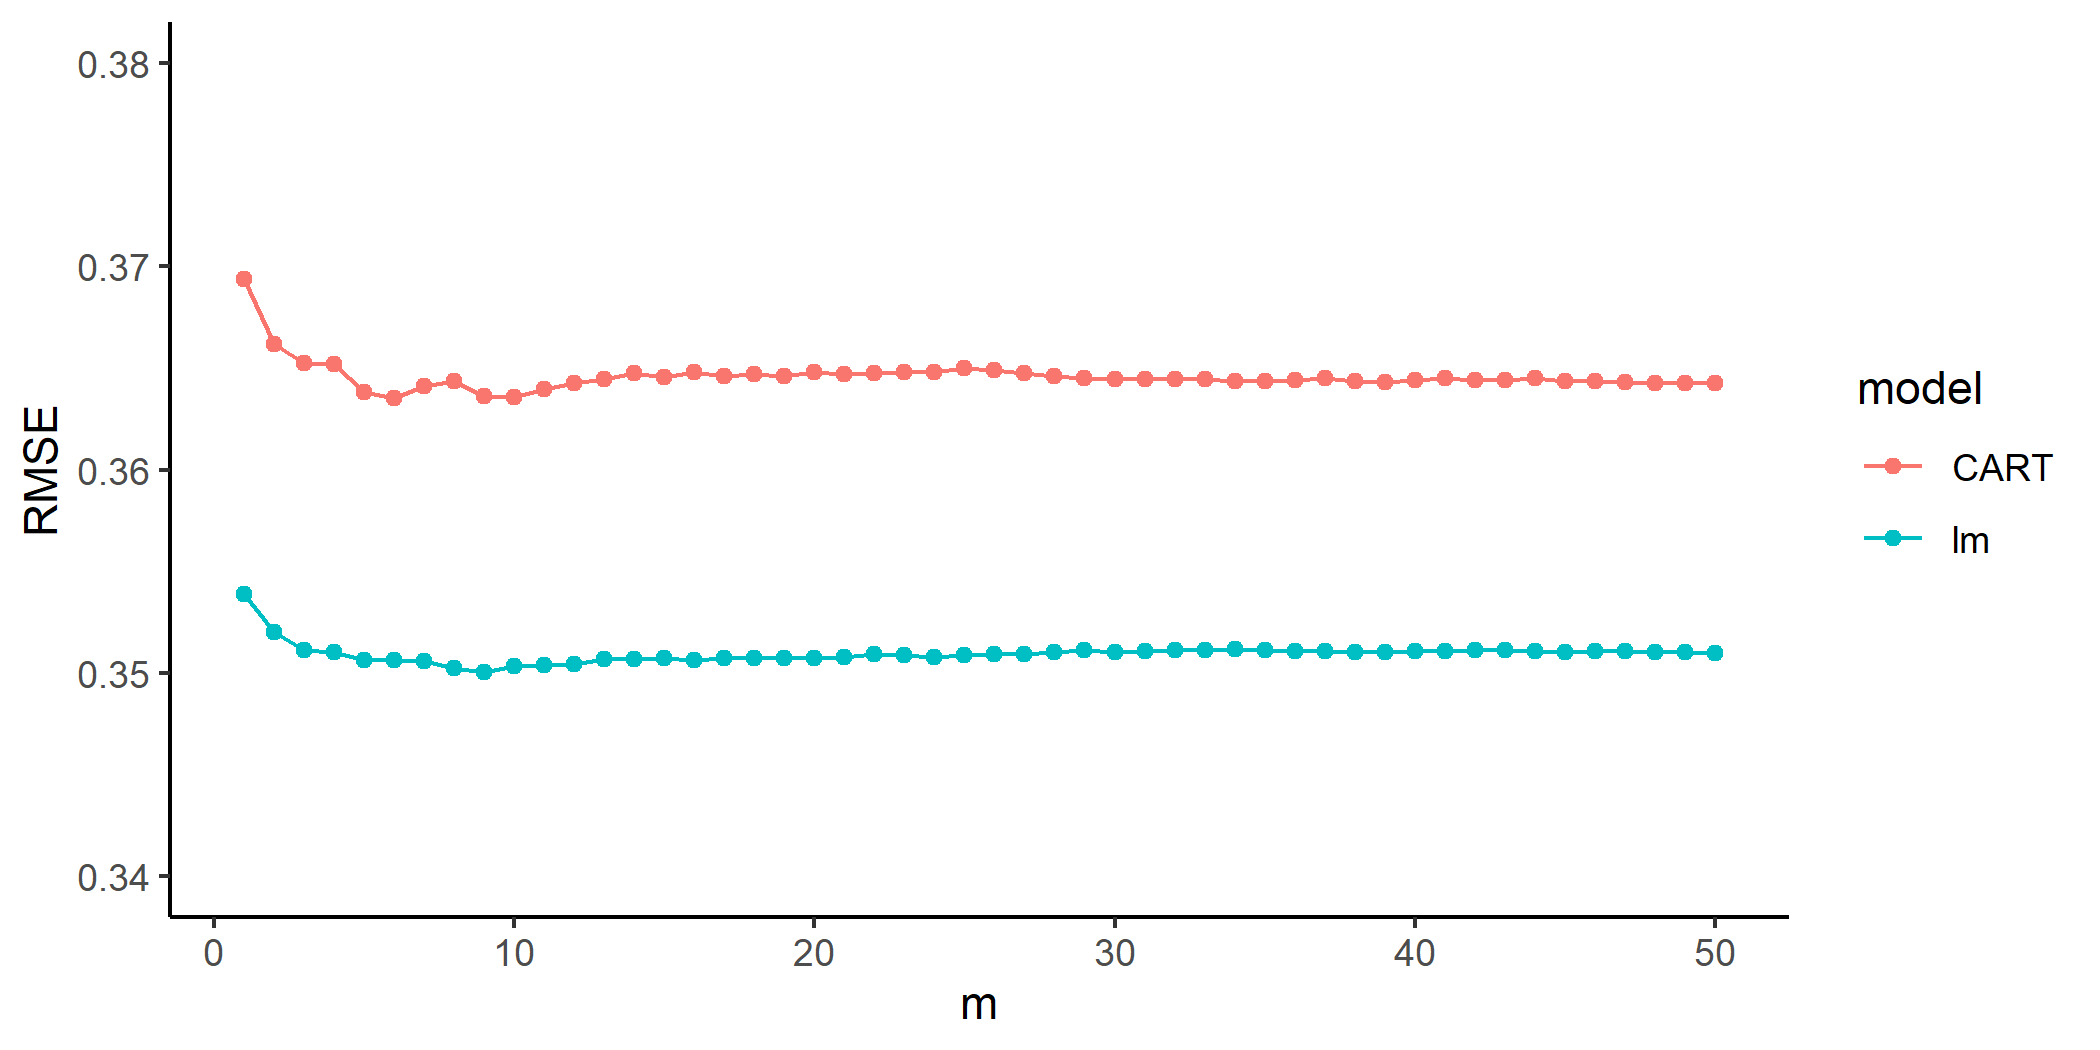
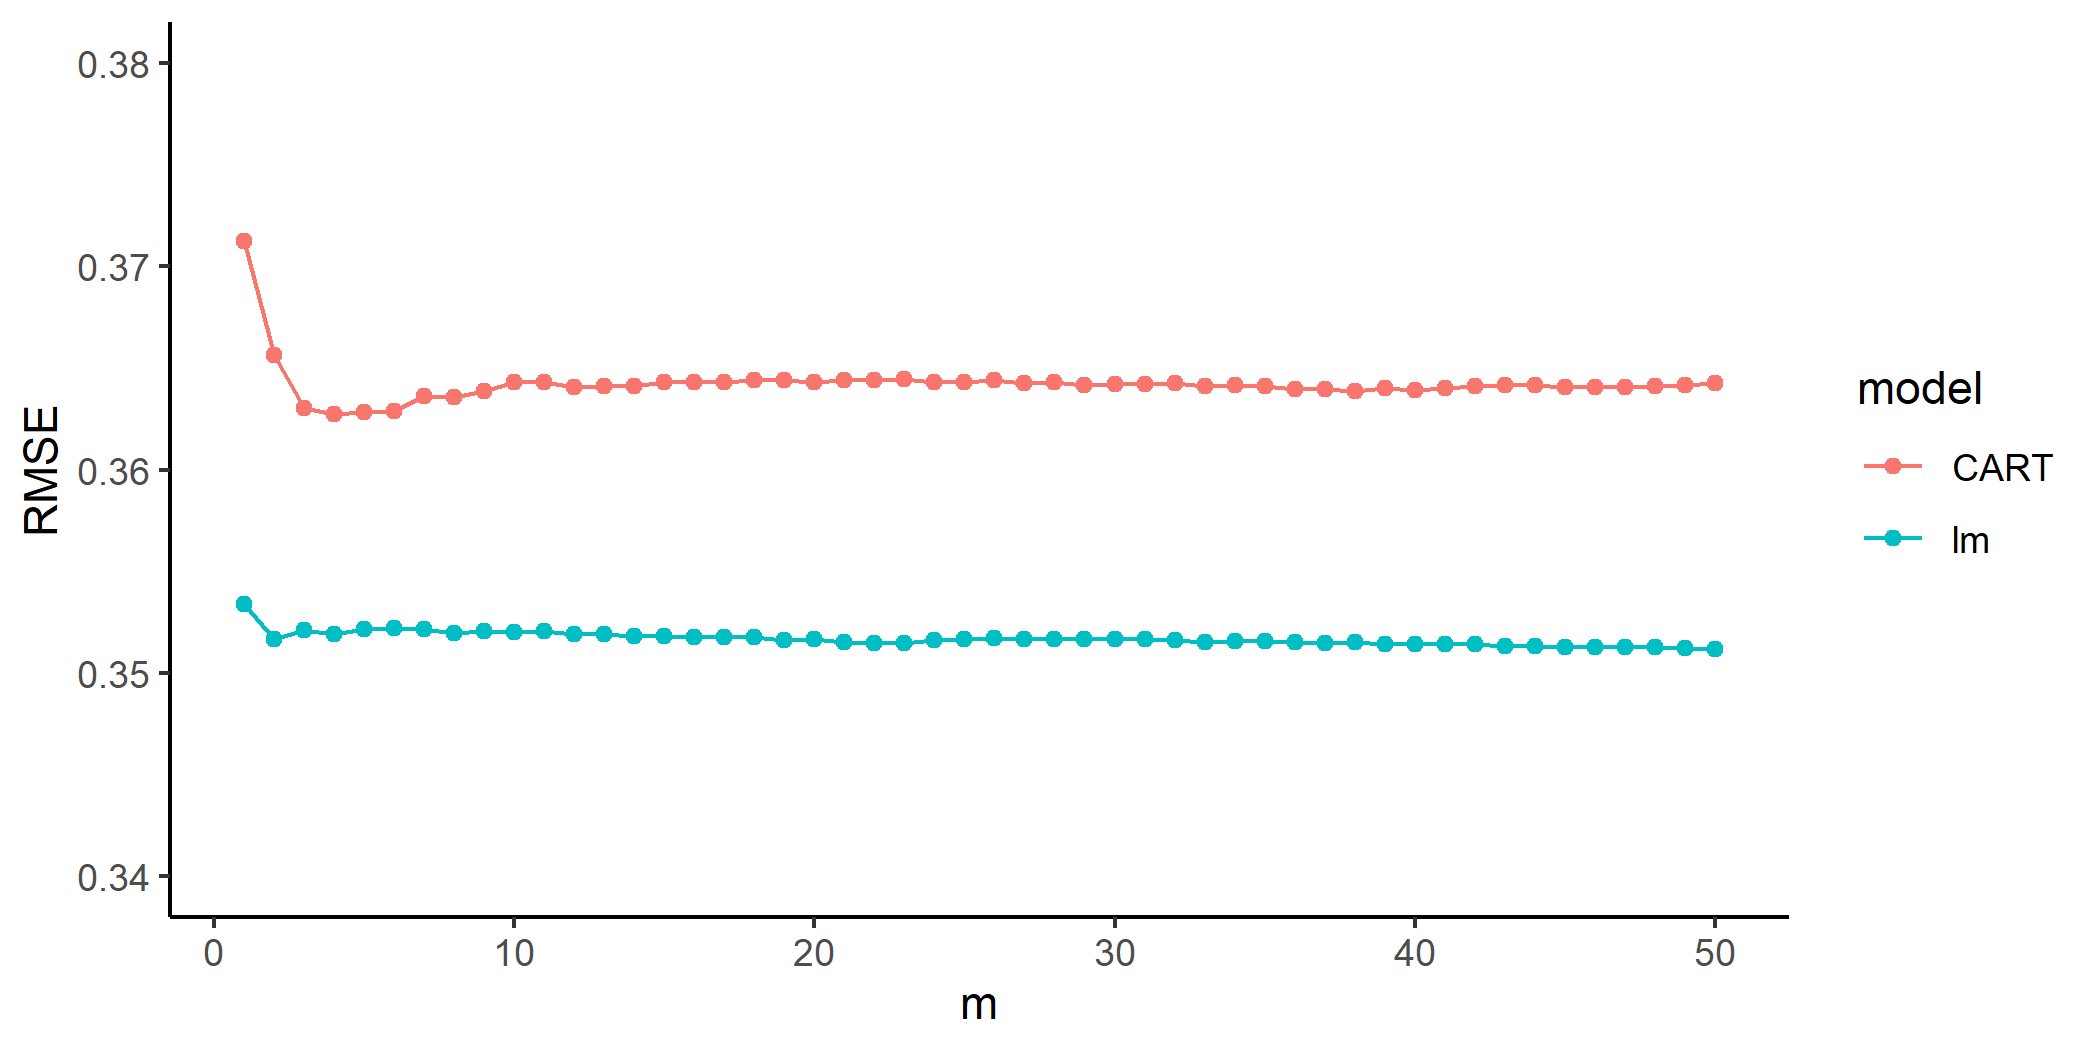
Finishes RF

diff --git a/u3_d01-trees/u3_d01-trees.html b/u3_d01-trees/u3_d01-trees.html
@@ -1073,7 +1073,7 @@ ggroc(roc_obj) +
   geom_segment(aes(x = 1, xend = 0, y = 0, yend = 1), color="darkgrey", linetype="dashed")
 ```
 
-&lt;img src="images/unnamed-chunk-24-1.png" width="50%" /&gt;
+&lt;img src="images/GLM-ROC-1.png" width="50%" /&gt;
 
 ---
 
@@ -1155,11 +1155,11 @@ report_accuracy_and_auc(okcupid3_valid$pets, pred_glm_glmnet[, 1])
 
 ```
 ## AUC: 0.739
-## ACC: 0.672
+## ACC: 0.671
 ## Dogs: Recall: 0.672
-##       Precision: 0.923
-## Cats: Recall: 0.672
-##       Precision: 0.259
+##       Precision: 0.922
+## Cats: Recall: 0.667
+##       Precision: 0.257
 ```
 
 ---
@@ -1473,7 +1473,7 @@ report_rmse_and_cor(okcupid2_valid$income, pred_bag_na)
 
 ```
 ## RMSE: 0.367
-## CORR: 0.434
+## CORR: 0.429
 ```
 
 ```r
@@ -1483,8 +1483,8 @@ report_rmse_and_cor(okcupid2_valid$income, pred_bag_mice)
 ```
 
 ```
-## RMSE: 0.366
-## CORR: 0.438
+## RMSE: 0.367
+## CORR: 0.431
 ```
 
 ---
@@ -1492,6 +1492,87 @@ report_rmse_and_cor(okcupid2_valid$income, pred_bag_mice)
 class: section-slide
 
 # Random Forests
+
+---
+
+### Random Forests: The Gist
+
+For `\(i = 1\)` to `\(m\)` do
+- Generate a bootstrap sample of the original data
+- Train an unpruned tree model on this sample
+- For each splot:
+  - Randomly select `\(m_{try}\)` predictors
+  - Select best predictor for split in this subset only
+
+End.
+
+---
+
+What does RF add on top of Bagging?
+
+&lt;img src="images/RF-Trees-1.png" width="80%" /&gt;
+
+---
+
+### RF with `randomForest`
+
+For some reason this implementation of RF won't accept missing values:
+
+
+```r
+library(randomForest)
+
+mod_rf_mice &lt;- randomForest(income ~ ., data = okcupid2_imp_mice_train,
+                       mtry = 10, ntree = 50, importance = TRUE)
+pred_rf_mice &lt;- predict(mod_rf_mice, okcupid2_imp_mice_valid)
+report_rmse_and_cor(okcupid2_valid$income, pred_rf_mice)
+```
+
+```
+## RMSE: 0.355
+## CORR: 0.487
+```
+
+For variable importance check out the `importance` field of the RF object:
+
+---
+
+&lt;img src="images/RF-VarImp-1.png" width="70%" /&gt;
+
+.insight[
+💡 What is troubling about variable importance?
+]
+---
+
+### Partial Dependency Plots
+
+1. Select a subset `\(X_s\)` of variables (usually 1-2) you wish to know the relation to the dependent variable `\(y\)`
+2. For each possible permutation of `\(X_s\)` run the model on the original data imputing this specific permutation instead of the values of `\(X_s\)`
+3. Average predictions of `\(y\)`
+4. Plot `\(y\)` vs. `\(X_s\)`
+
+---
+
+
+```r
+partial(mod_rf_mice, pred.var = "age",
+        plot = TRUE, plot.engine = "ggplot2") +
+  labs(y = "income") +
+  theme_classic()
+```
+
+&lt;img src = "images/RF-PDP-Age.png" style="width: 50%"&gt;
+
+---
+
+Let's see this for `age` and `height_cm` together (takes some time!):
+
+
+```r
+partial(mod_rf_mice, pred.var = c("age", "height_cm"), plot = TRUE)
+```
+
+&lt;img src = "images/RF-PDP-Age-Height.png" style="width: 50%"&gt;
 
 ---
 
